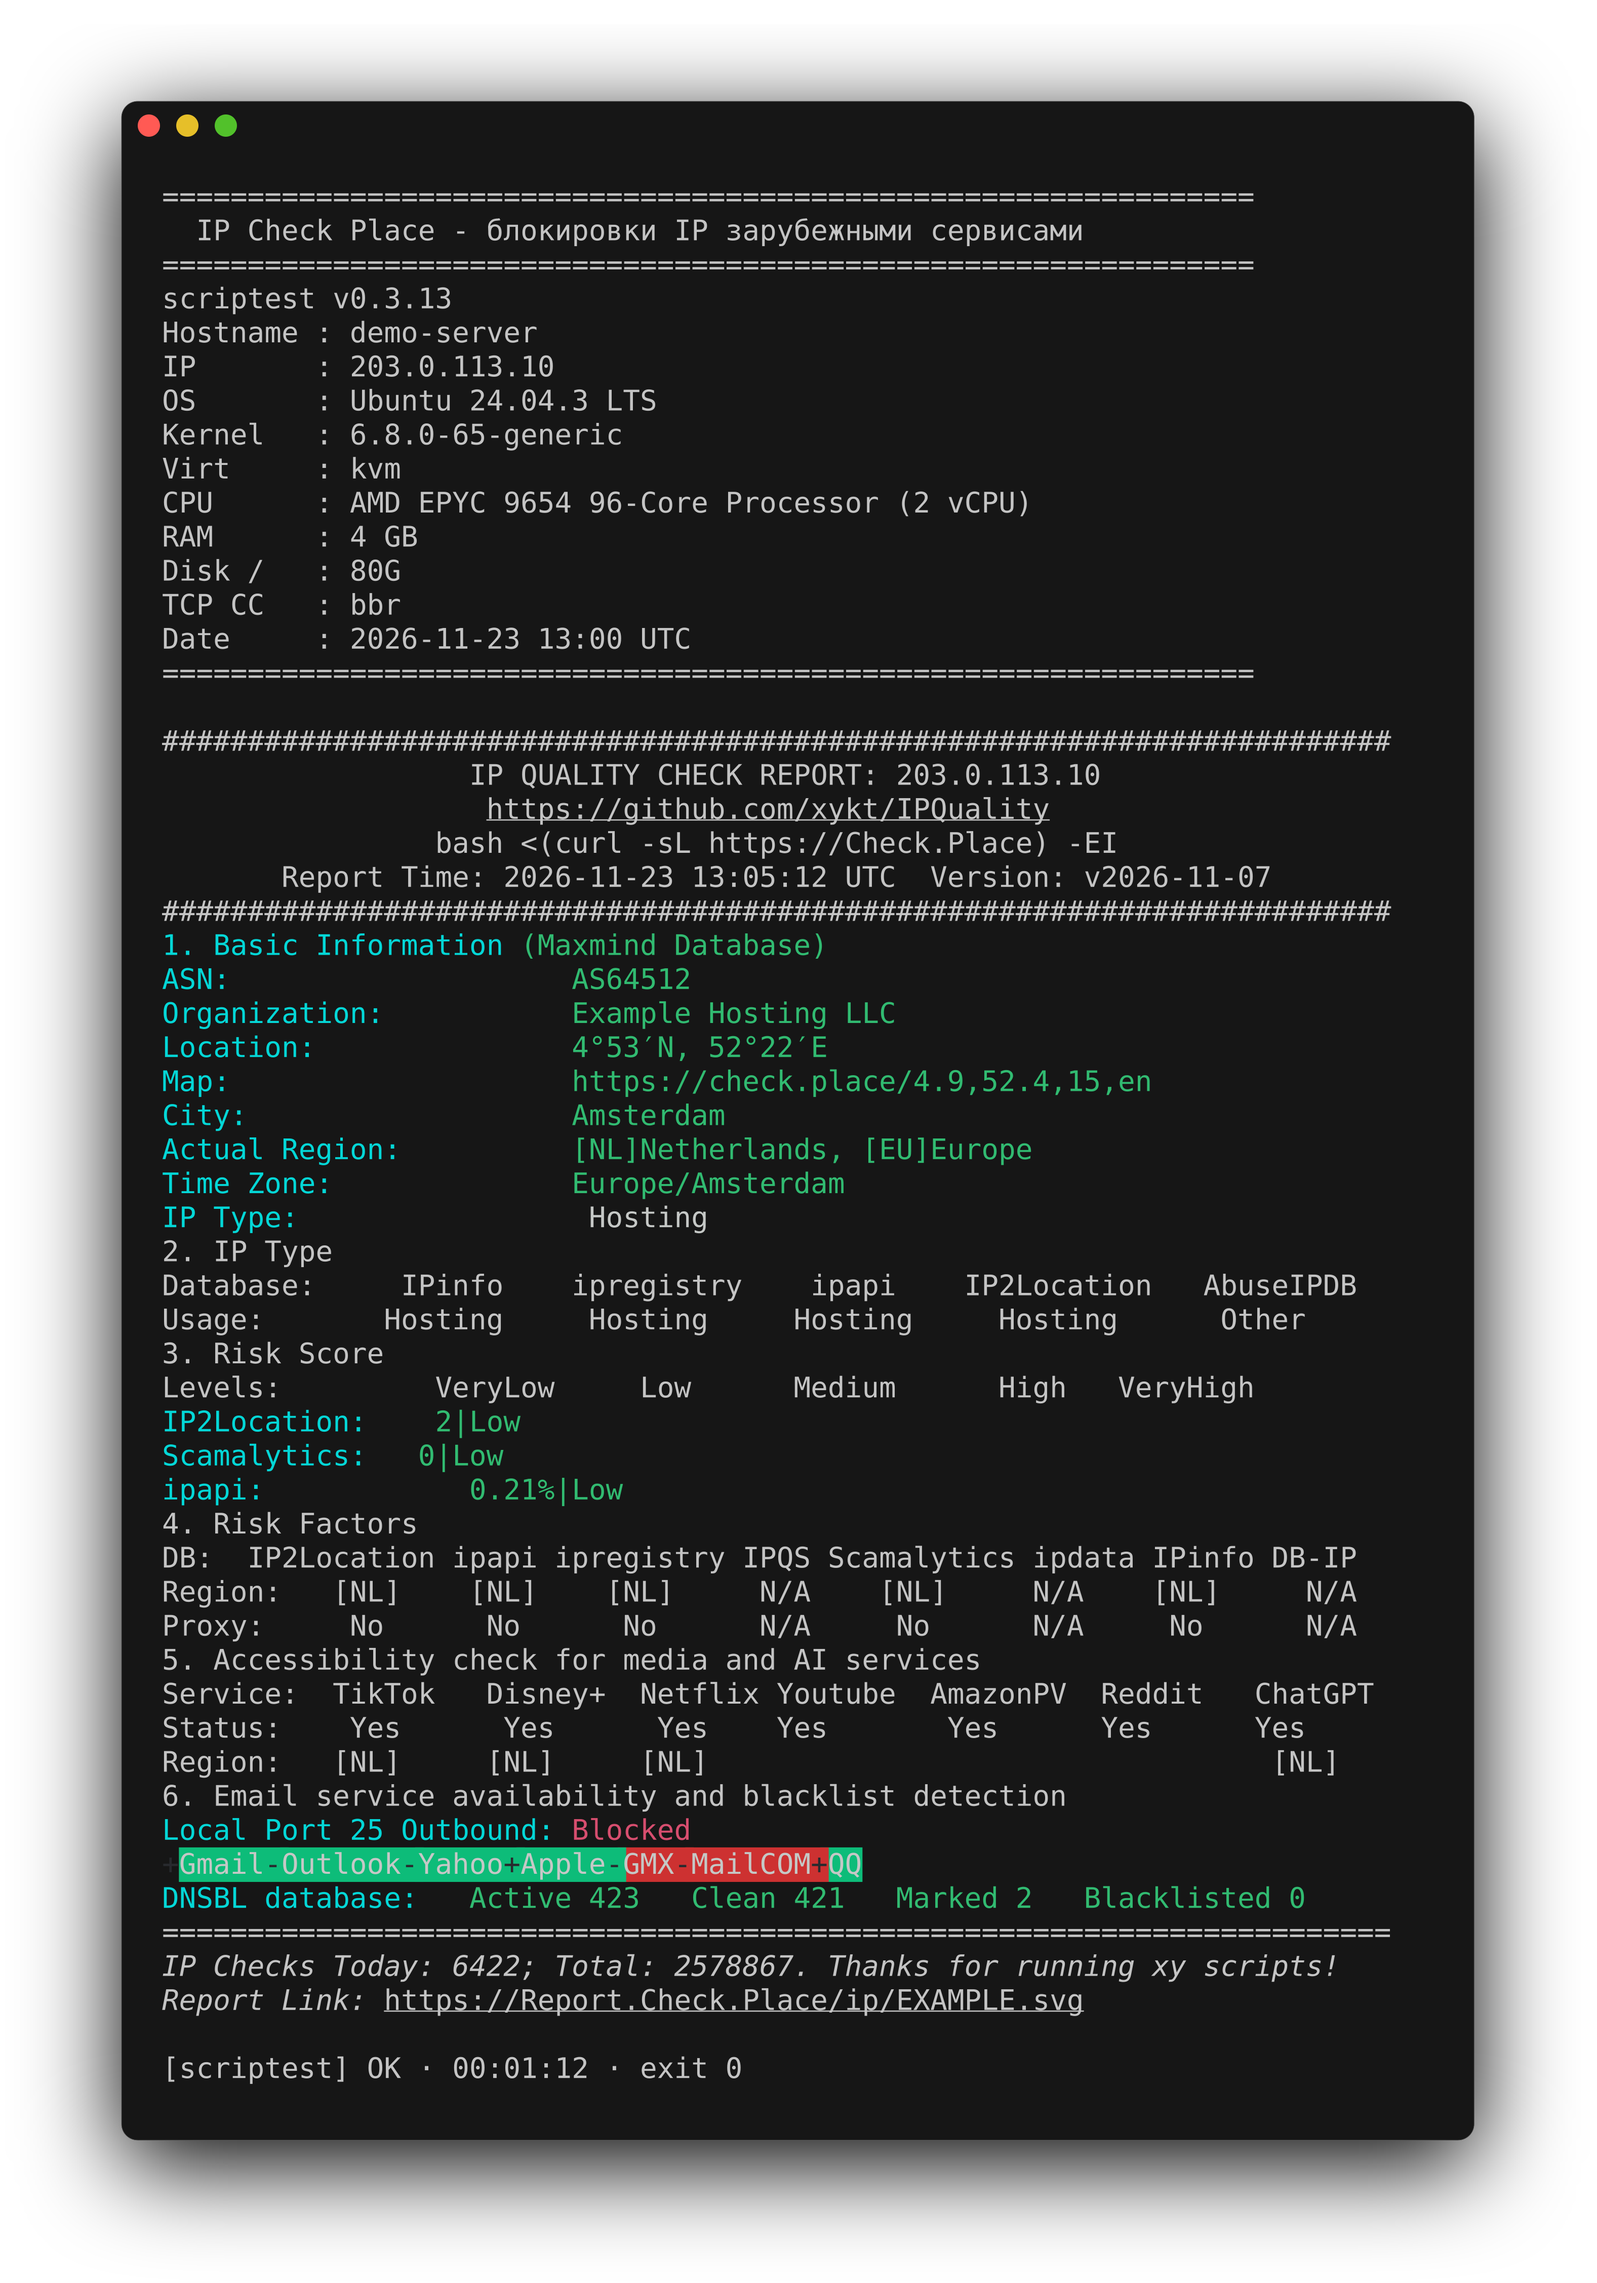
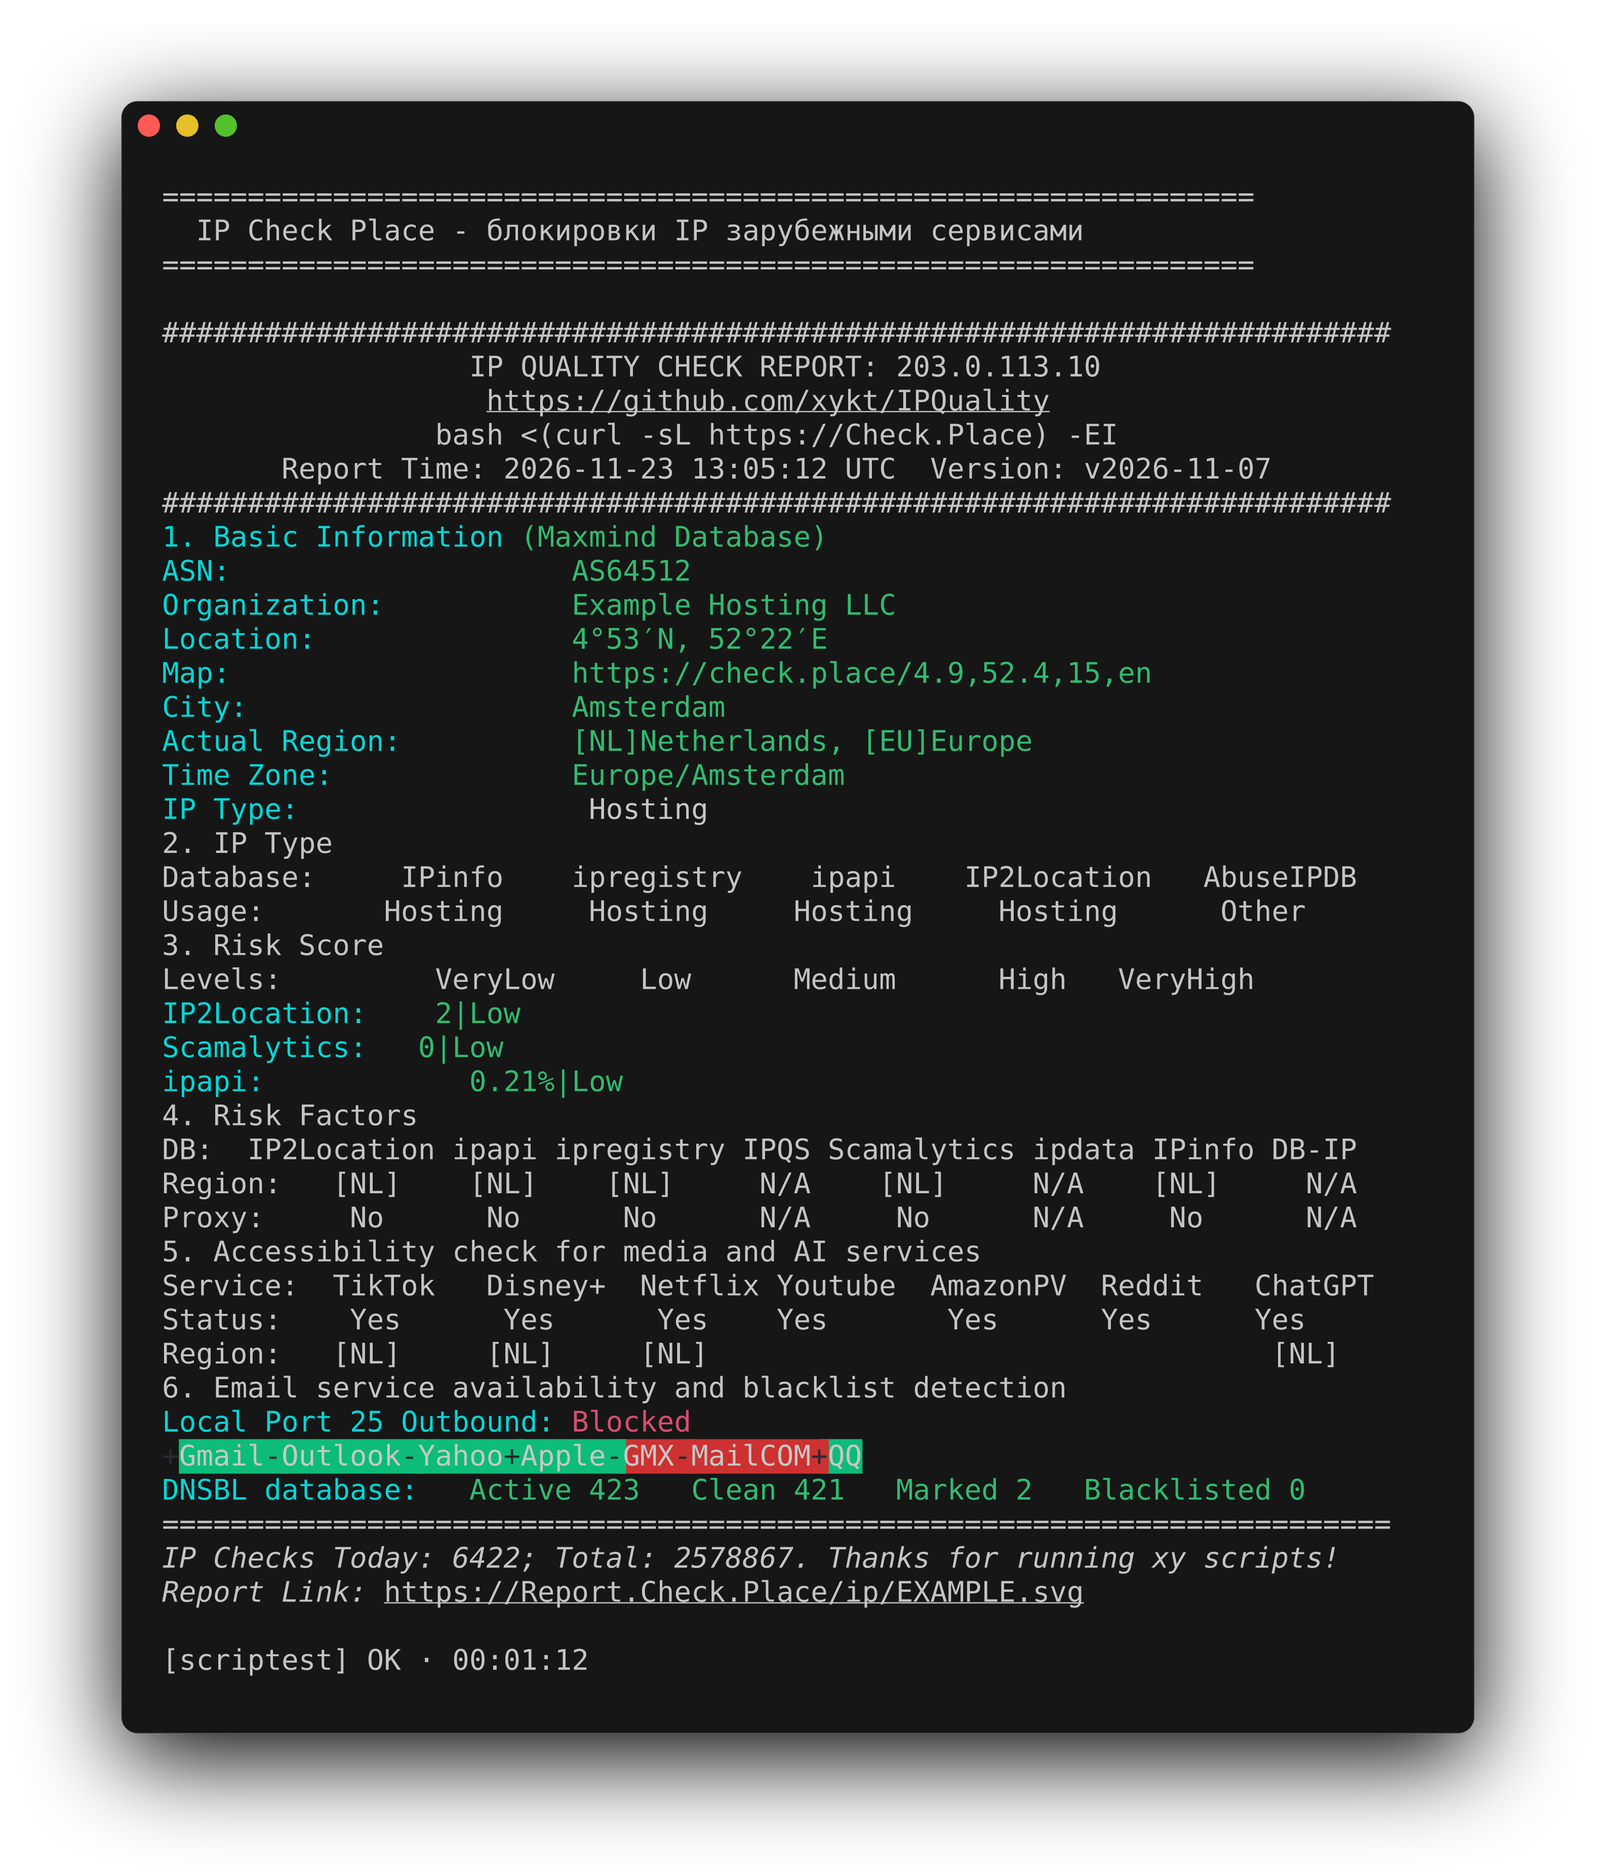
Return to menu after report, drop server specs from test logs

diff --git a/README.md b/README.md
@@ -46,6 +46,8 @@ bash scriptest.sh --only sysbench,ipregion
 
 ![IP Region](docs/ipregion.png)
 
+Каждый тест - отдельная картинка: заголовок и результат, без повторяющихся характеристик сервера (они на первом скрине). Когда все тесты прошли и архив собрался, скрипт сам возвращает в меню: можно сразу выбрать что-то ещё. Выход - `q` или Ctrl+C.
+
 В конце собирается `report.zip`, внутри только PNG. Имя занято? Скрипт возьмёт `report-2.zip` и так далее. Рядом с картинками остаются текстовые логи и `summary.md` со статусами и временем тестов.
 
 ## Как это работает
